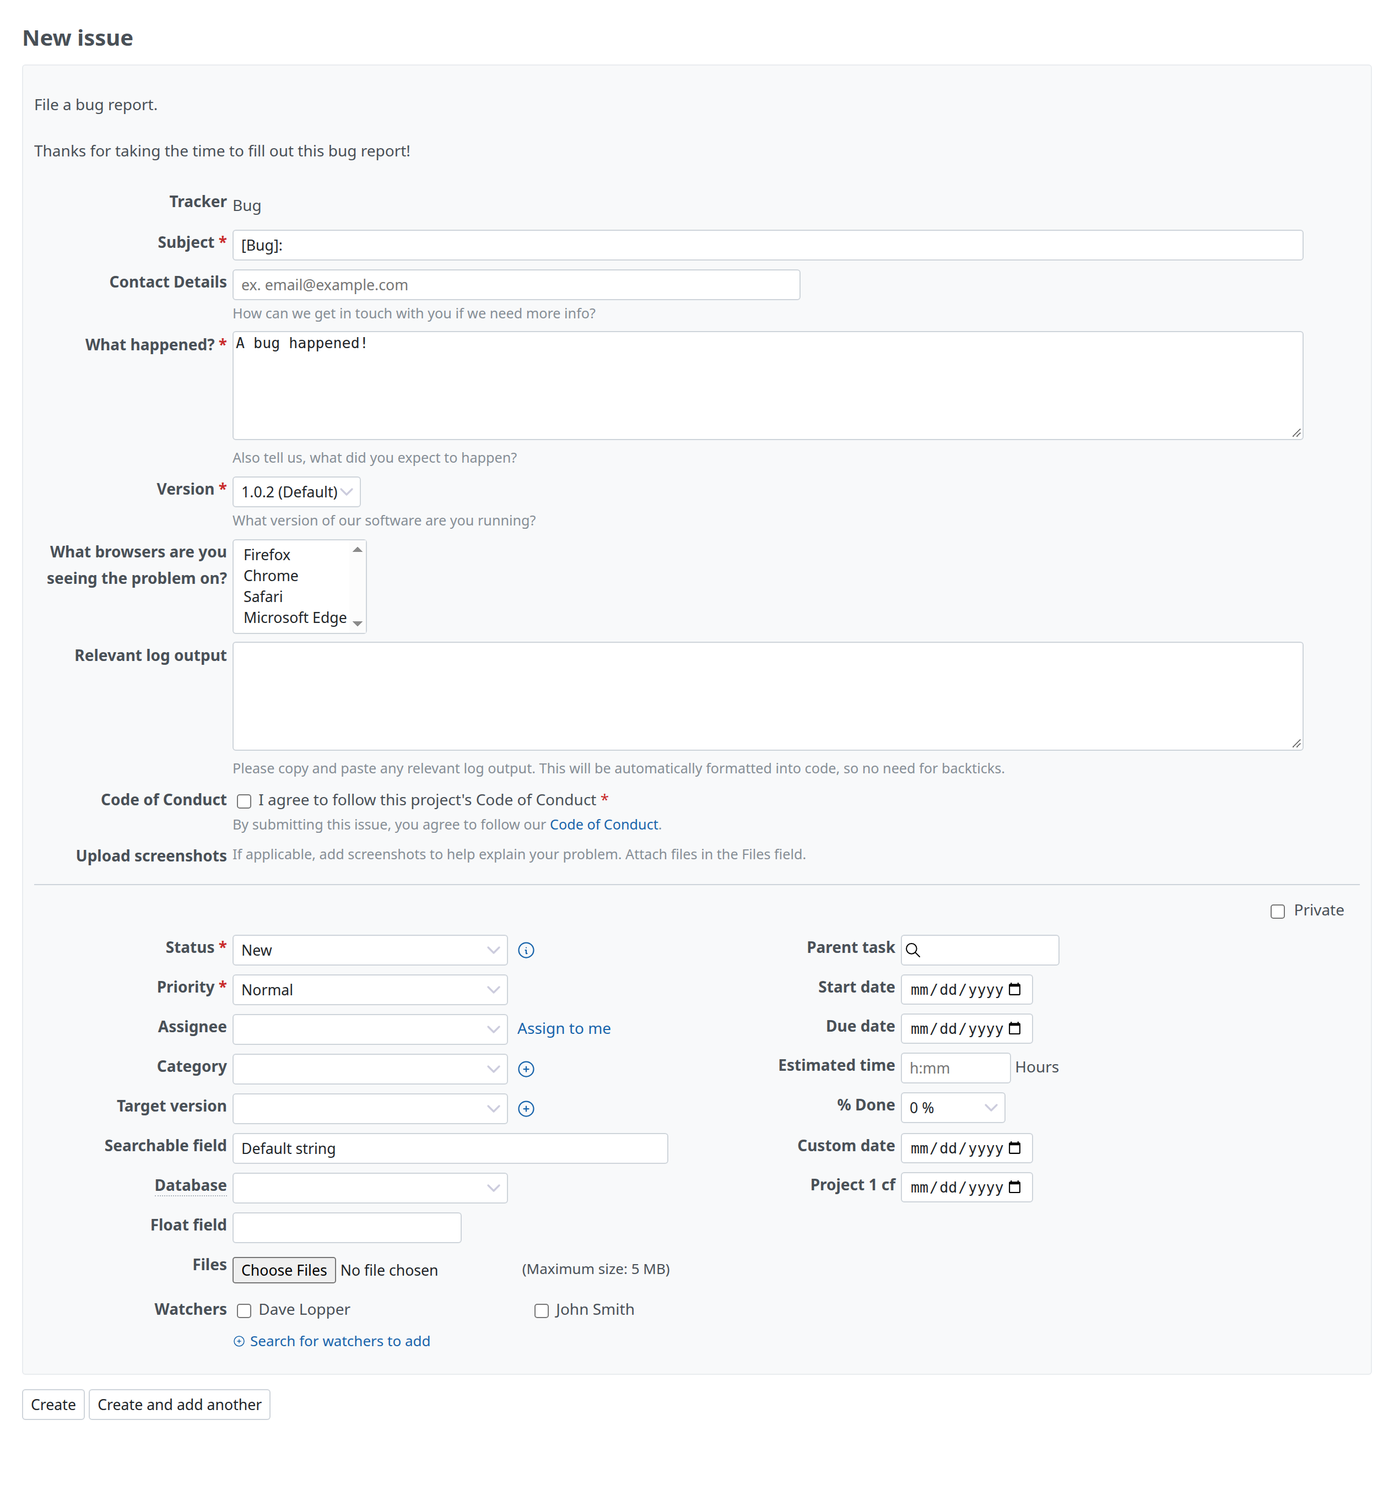
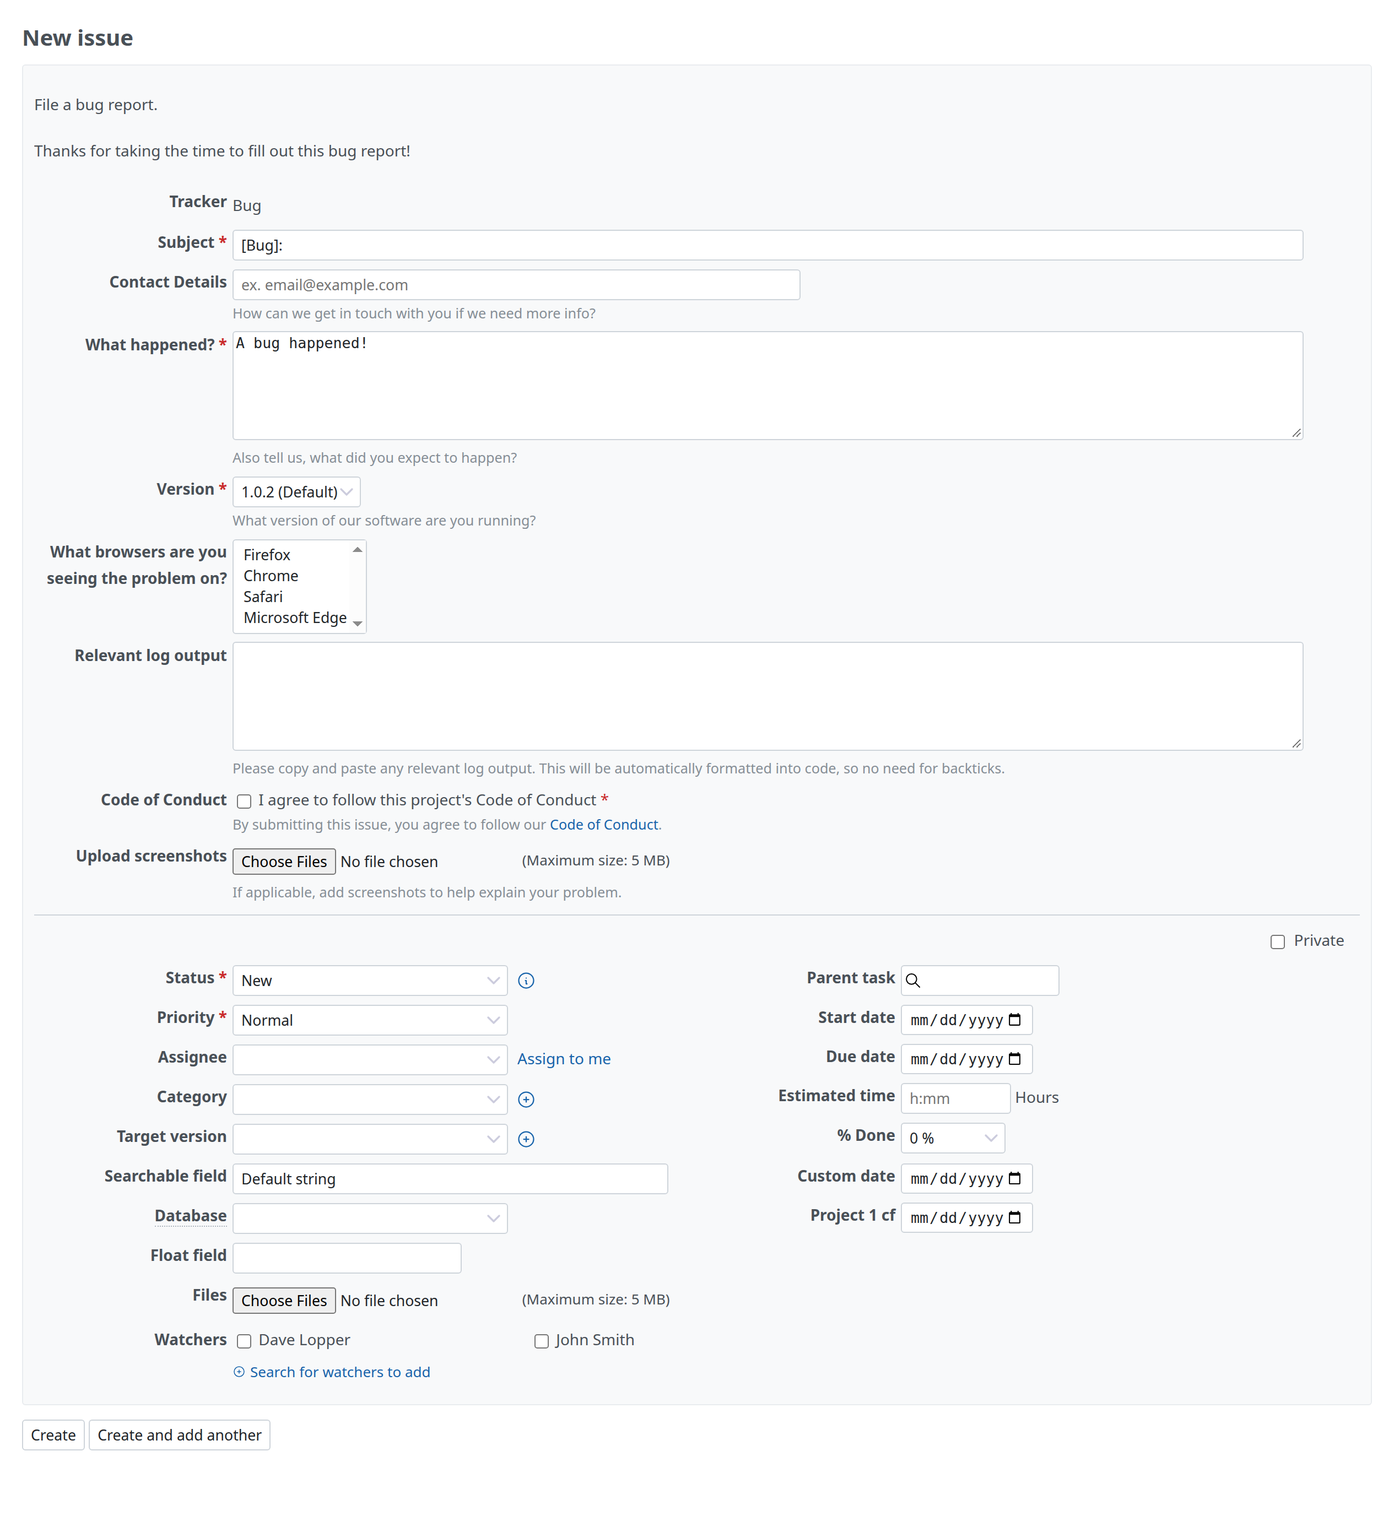
Take files in a form's upload fields

diff --git a/test/functional/issues_controller_template_test.rb b/test/functional/issues_controller_template_test.rb
@@ -148,6 +148,59 @@ module RedmineIssueTemplate
       assert_select 'textarea[name=?]', 'issue_template_answers[what-happened]', text: ''
     end
 
+    test 'an upload field takes files, and its section lists them' do
+      set_tmp_attachments_directory
+      get :new, params: { project_id: 'ecookbook', issue_template: 'bug_report' }
+      assert_select '.issue-template-fields input.file_selector.custom-field-filedrop[name=?]',
+                    'issue_template_uploads[screenshots][dummy][file]'
+
+      mine = upload('screen.png', 2)
+      other = upload('other.png', 3)
+      files = upload('log.txt', 2)
+      post :create, params: {
+        project_id: 'ecookbook', issue_template: 'bug_report',
+        issue: { tracker_id: '1', subject: 'Uploads' },
+        issue_template_answers: { 'what-happened' => 'It crashed', 'version' => '0', 'terms' => ['0'] },
+        issue_template_uploads: { 'screenshots' => { '1' => { 'token' => mine.token, 'description' => 'Crash' },
+                                                     '2' => { 'token' => other.token } } },
+        attachments: { '1' => { 'token' => files.token } }
+      }
+      issue = Issue.order(:id).last
+      assert_redirected_to "/issues/#{issue.id}"
+      # The user's own upload and the file of Redmine's Files field; not another user's upload.
+      assert_equal %w[log.txt screen.png], issue.attachments.map(&:filename).sort
+      assert_equal 'Crash', mine.reload.description
+      assert_nil other.reload.container
+      assert issue.description.gsub("\r\n", "\n").end_with?("### Upload screenshots\n\nattachment:\"screen.png\"")
+    end
+
+    test 'uploaded files come back when the form is updated or not saved' do
+      set_tmp_attachments_directory
+      token = upload('screen.png', 2).token
+      uploads = { 'screenshots' => { '1' => { 'token' => token } } }
+      post :new, params: { project_id: 'ecookbook', issue_template: 'bug_report', issue_template_uploads: uploads,
+                           form_update_triggered_by: 'issue_tracker_id', issue: { tracker_id: '1' } }, xhr: true
+      assert_include 'issue_template_uploads[screenshots][p0][token]', response.body
+      assert_include token, response.body
+
+      post :create, params: { project_id: 'ecookbook', issue_template: 'bug_report', issue_template_uploads: uploads,
+                              issue: { tracker_id: '1', subject: 'Not saved' } }
+      assert_response :success
+      assert_select 'input[name=?][value=?]', 'issue_template_uploads[screenshots][p0][token]', token
+      # Only in the form's field, not again in Redmine's Files field.
+      assert_select 'input[value=?]', token, count: 1
+    end
+
+    test 'a required upload field needs a file' do
+      form = github_fixture('bug_report.yml').sub(/(type: upload.*?required:) false/m, '\\1 true')
+      import('bug_report.yml' => form)
+      post :create, params: { project_id: 'ecookbook', issue_template: 'bug_report',
+                              issue: { tracker_id: '1', subject: 'No file' },
+                              issue_template_answers: { 'what-happened' => 'x', 'version' => '0', 'terms' => ['0'] } }
+      assert_response :success
+      assert_select '#errorExplanation li', text: /Upload screenshots/
+    end
+
     test 'updating the form keeps the template' do
       post :new, params: { project_id: 'ecookbook', issue_template: 'bug_report',
                            form_update_triggered_by: 'issue_tracker_id', issue: { tracker_id: '3', subject: 'x' },
@@ -279,6 +332,7 @@ module RedmineIssueTemplate
       get :new, params: { project_id: 'ecookbook', issue_template: 'feature', issue: { custom_field_values: 'x' } }
       assert_response :success
       post :create, params: { project_id: 'ecookbook', issue_template: 'bug_report', issue_template_answers: 'x',
+                              issue_template_uploads: { 'screenshots' => 'x', 'other' => { '1' => 'x' } },
                               issue: { tracker_id: '1', subject: 'Shapes', custom_fields: ['x'] } }
       assert_response :success
       assert_select '#errorExplanation'
@@ -502,6 +556,12 @@ module RedmineIssueTemplate
     test 'an unknown template opens the chooser' do
       get :new, params: { project_id: 'ecookbook', issue_template: 'nope' }
       assert_redirected_to '/projects/ecookbook/issues/templates'
+    end
+
+    private
+
+    def upload(name, user_id)
+      Attachment.create!(file: uploaded_test_file('testfile.txt', 'text/plain'), filename: name, author_id: user_id)
     end
   end
 end

diff --git a/lib/redmine_issue_template/issue_patch.rb b/lib/redmine_issue_template/issue_patch.rb
@@ -6,16 +6,19 @@ module RedmineIssueTemplate
   # fields, and an issue form's answers become the description.
   module IssuePatch
     include RedmineRules
+    include IssueTemplateAnswers
 
     # The links apply before Redmine's own callbacks (default_assign takes the
     # linked category's assignee) and the description is composed after them.
     def self.prepended(base)
       base.attr_reader :issue_template
       base.attr_accessor :issue_template_answers
-      base.attr_writer :issue_template_defaults
+      base.attr_writer :issue_template_defaults, :issue_template_uploads
       base.before_validation :apply_issue_template_links, on: :create, prepend: true
       base.before_validation :compose_issue_template_description, on: :create
       base.validate :validate_issue_template_answers, on: :create
+      # After Redmine's attach_saved_attachments (after_save).
+      base.after_create :attach_issue_template_uploads
     end
 
     def issue_template=(template)
@@ -109,12 +112,6 @@ module RedmineIssueTemplate
       redmine_method(:editable_custom_field_values).call(author).each(&:validate_value)
     end
 
-    def issue_template_composer
-      BodyComposer.new(issue_template, issue_template_answers,
-                       files: saved_attachments.map(&:filename), linked: issue_template_links.map(&:element),
-                       dropped: issue_template_dropped)
-    end
-
     private
 
     # On create, Redmine resets the custom fields the user can't edit to their
@@ -133,25 +130,6 @@ module RedmineIssueTemplate
     def apply_issue_template_links
       answers = (issue_template_answers || {}).to_h.transform_keys(&:to_s)
       issue_template_links.each { |link| link.apply(self, answers[link.element.ref]) }
-    end
-
-    def compose_issue_template_description
-      return unless issue_template_active? && issue_template.form?
-
-      self.description = issue_template_composer.compose
-    end
-
-    def validate_issue_template_answers
-      return unless issue_template_active? && issue_template.form?
-
-      issue_template_composer.problems.each do |element, problem|
-        message = case problem
-                  when :too_short then ::I18n.t('activerecord.errors.messages.too_short', count: element.min_length)
-                  when :unchecked then ::I18n.t(:issue_template_error_unchecked)
-                  else ::I18n.t('activerecord.errors.messages.blank')
-                  end
-        errors.add(:base, "#{element.label}#{::I18n.t(:issue_template_error_separator)}#{message}")
-      end
     end
   end
 end

diff --git a/lib/redmine_issue_template/issue_template_answers.rb b/lib/redmine_issue_template/issue_template_answers.rb
@@ -1,0 +1,46 @@
+# frozen_string_literal: true
+
+module RedmineIssueTemplate
+  # A form's answers and uploaded files on a new issue: the description made
+  # from them, their checks, and the files attached. Part of IssuePatch.
+  module IssueTemplateAnswers
+    # The files of a form's upload fields: { ref => [Attachment] }, given by
+    # the controller (IssueTemplateParams#issue_template_uploads_param).
+    def issue_template_uploads
+      @issue_template_uploads || {}
+    end
+
+    def issue_template_composer
+      BodyComposer.new(issue_template, issue_template_answers,
+                       files: issue_template_uploads.transform_values { |list| list.map(&:filename) },
+                       linked: issue_template_links.map(&:element), dropped: issue_template_dropped)
+    end
+
+    private
+
+    # The upload fields' files become the issue's files, as Redmine attaches
+    # the files of its own Files field.
+    def attach_issue_template_uploads
+      issue_template_uploads.values.flatten.uniq.each { |attachment| attachments << attachment }
+    end
+
+    def compose_issue_template_description
+      return unless issue_template_active? && issue_template.form?
+
+      self.description = issue_template_composer.compose
+    end
+
+    def validate_issue_template_answers
+      return unless issue_template_active? && issue_template.form?
+
+      issue_template_composer.problems.each do |element, problem|
+        message = case problem
+                  when :too_short then ::I18n.t('activerecord.errors.messages.too_short', count: element.min_length)
+                  when :unchecked then ::I18n.t(:issue_template_error_unchecked)
+                  else ::I18n.t('activerecord.errors.messages.blank')
+                  end
+        errors.add(:base, "#{element.label}#{::I18n.t(:issue_template_error_separator)}#{message}")
+      end
+    end
+  end
+end

diff --git a/lib/redmine_issue_template/body_composer.rb b/lib/redmine_issue_template/body_composer.rb
@@ -7,9 +7,9 @@ module RedmineIssueTemplate
     NO_RESPONSE = '_No response_'
 
     # answers: { ref => a string, or option indexes for multiple dropdowns and
-    # checkboxes }. files: attachment names for upload fields. linked: fields
+    # checkboxes }. files: { ref => file names } of upload fields. linked: fields
     # that set the issue's fields instead. dropped: fields the form leaves out.
-    def initialize(form, answers, files: [], linked: [], dropped: [])
+    def initialize(form, answers, files: {}, linked: [], dropped: [])
       @form = form
       @answers = (answers || {}).to_h.transform_keys(&:to_s)
       @files = files
@@ -58,7 +58,7 @@ module RedmineIssueTemplate
              when 'input' then raw(element).to_s.strip
              when 'dropdown' then chosen(element).join(', ')
              when 'checkboxes' then checkboxes(element)
-             when 'upload' then @files.map { |name| "attachment:\"#{name}\"" }.join("\n")
+             when 'upload' then files(element).map { |name| "attachment:\"#{name}\"" }.join("\n")
              when IssueForm::LINK then given(element).join(', ')
              end
       text.presence || NO_RESPONSE
@@ -102,9 +102,13 @@ module RedmineIssueTemplate
       when 'textarea', 'input' then text_problem(element)
       when 'dropdown' then blank_problem(element, chosen(element))
       when 'checkboxes' then checkbox_problem(element)
-      when 'upload' then blank_problem(element, @files)
+      when 'upload' then blank_problem(element, files(element))
       when IssueForm::LINK then blank_problem(element, given(element))
       end
+    end
+
+    def files(element)
+      @files.fetch(element.ref, [])
     end
 
     def blank_problem(element, values)

diff --git a/lib/redmine_issue_template/issue_template_params.rb b/lib/redmine_issue_template/issue_template_params.rb
@@ -33,6 +33,30 @@ module RedmineIssueTemplate
       answers.permit(refs.flat_map { |ref| [ref, { ref => [] }] }).to_h
     end
 
+    # The files of the form's upload fields: { ref => [Attachment] }, from
+    # the tokens of Redmine's uploads (at most 10 a field, as Redmine's Files
+    # field takes).
+    def issue_template_uploads_param(template)
+      given = hash_param(params[:issue_template_uploads])
+      uploads = template.form? ? template.fields.select { |element| element.type == 'upload' } : []
+      uploads.to_h do |element|
+        entries = hash_param(given[element.ref]).values.first(10)
+        [element.ref, entries.filter_map { |entry| uploaded_attachment(hash_param(entry)) }]
+      end
+    end
+
+    # A file the user uploaded and that is not attached yet, with the name
+    # and description from the form, as Redmine's save_attachments reads them.
+    def uploaded_attachment(entry)
+      attachment = Attachment.find_by_token(entry['token'].to_s)
+      return nil unless attachment && attachment.author_id == User.current.id
+
+      filename = entry['filename']
+      attachment.filename = filename if filename.is_a?(String) && filename.present?
+      attachment.description = entry['description'].to_s.strip
+      attachment
+    end
+
     # The answers as text, under the names they were posted with.
     def issue_template_answers_text
       issue_template_answers_param.filter_map do |name, value|

diff --git a/test/unit/body_composer_test.rb b/test/unit/body_composer_test.rb
@@ -10,7 +10,7 @@ module RedmineIssueTemplate
       RedmineIssueTemplate::Parser.parse('bug_report.yml' => github_fixture('bug_report.yml')).usable.first
     end
 
-    def composer(answers, files: [])
+    def composer(answers, files: {})
       RedmineIssueTemplate::BodyComposer.new(form, answers, files: files)
     end
 
@@ -52,7 +52,7 @@ module RedmineIssueTemplate
     end
 
     test 'empty answers, unchecked boxes and uploaded files' do
-      body = composer({ 'terms' => [''] }, files: ['screen shot.png']).compose
+      body = composer({ 'terms' => [''] }, files: { 'screenshots' => ['screen shot.png'] }).compose
       assert_includes body, "### Relevant log output\n\n_No response_"
       assert_includes body, "- [ ] I agree to follow this project's Code of Conduct"
       assert_includes body, "### Upload screenshots\n\nattachment:\"screen shot.png\""

diff --git a/lib/redmine_issue_template.rb b/lib/redmine_issue_template.rb
@@ -24,8 +24,8 @@ module RedmineIssueTemplate
   def setup
     %w[yaml_nodes message parser redmine_options linked_field template markdown_template redmine_rules
        issue_form_checks issue_form chooser_config template_set body_composer importer repository_source
-       issue_template_defaults issue_patch issue_template_params issues_controller_patch projects_helper_patch
-       repository_patch hooks].each do |file|
+       issue_template_defaults issue_template_answers issue_patch issue_template_params issues_controller_patch
+       projects_helper_patch repository_patch hooks].each do |file|
       require_relative "redmine_issue_template/#{file}"
     end
     Project.has_many :issue_template_files, dependent: :delete_all

diff --git a/lib/redmine_issue_template/issues_controller_patch.rb b/lib/redmine_issue_template/issues_controller_patch.rb
@@ -40,6 +40,7 @@ module RedmineIssueTemplate
       @issue.issue_template = template
       @issue.issue_template_defaults = issue_template_defaults(template)
       @issue.issue_template_answers = issue_template_answers_param(template)
+      @issue.issue_template_uploads = issue_template_uploads_param(template)
       issue_template_defaults(template).apply_to_hidden_fields(@issue)
       restore_shown_hidden_input(@issue, template)
     end

diff --git a/docs/ja/design.md b/docs/ja/design.md
@@ -76,7 +76,7 @@ fields:
 
 入力の種類は `markdown`、`textarea`(`label`、`description`、`placeholder`、`value`、`render`。検証は `required`、`min_length`)、`input`(`label`、`description`、`placeholder`、`value`。検証は `required`、`min_length`)、`dropdown`(`label`、`description`、`multiple`、`options`、`default`。検証は `required`)、`checkboxes`(`label`、`description`、`label` と `required` を持つ選択肢。検証は `required`)、`upload`(`label`、`description`。検証は `required`、`accept`)です。`type` を書かずに `link` を書いた入力欄は、チケットの項目に値を入れます([項目とのつなぎ込み](format.md#links))。ファイルごとの入力チェックは、[検証](format.md#checks)のとおりです。
 
-チケットを作るときに、回答を Markdown にして説明に書きます。入力欄ごとに `### <label>` の見出しを置き、その下に回答を書きます。空なら `_No response_`、`render` のある `textarea` はコードブロック、`dropdown` は選んだ選択肢をカンマで区切り、`checkboxes` は選択肢ごとに `- [X] <label>` か `- [ ] <label>` です。`upload` はチケットの「ファイル」の欄を使い、その節には添付したファイルを並べます。
+チケットを作るときに、回答を Markdown にして説明に書きます。入力欄ごとに `### <label>` の見出しを置き、その下に回答を書きます。空なら `_No response_`、`render` のある `textarea` はコードブロック、`dropdown` は選んだ選択肢をカンマで区切り、`checkboxes` は選択肢ごとに `- [X] <label>` か `- [ ] <label>` です。`upload` は Redmine の「ファイル」欄と同じファイルの欄で、そのファイルはチケットに添付され、その節に並びます。Redmine の「ファイル」欄は、ほかのファイルのために下に残ります。
 
 Redmine は、説明をテキスト書式の設定で表示します。テンプレートは Markdown なので、設定は CommonMark Markdown にします。そうでなければ、プロジェクトの設定のタブに警告を出します。
 

diff --git a/AGENTS.md b/AGENTS.md
@@ -14,8 +14,8 @@ Redmine Issue Template (`redmine_issue_template`) is a Redmine plugin for issue 
 | `lib/redmine_issue_template/message.rb` | Errors and warnings of the files, in Redmine's validation sentences |
 | `lib/redmine_issue_template/template_set.rb` | A project's parsed templates, cached per process by a database key |
 | `lib/redmine_issue_template/importer.rb`, `repository_source.rb`, `repository_patch.rb` | Importing and storing files (the entry point for redmine_github) |
-| `lib/redmine_issue_template/issue_patch.rb` (`issue_template_visibility`, the one place), `redmine_rules.rb`, `issue_template_defaults.rb`, `linked_field.rb`, `body_composer.rb` | What a template does to a new issue: hidden, preset, linked and required fields, the template's values, the description from the answers |
-| `lib/redmine_issue_template/issues_controller_patch.rb`, `issue_template_params.rb` | The chooser redirect, refusing issues without a template; the request's parameters (permitted answers, preset values, what the request can't set) |
+| `lib/redmine_issue_template/issue_patch.rb` (`issue_template_visibility`, the one place), `redmine_rules.rb`, `issue_template_defaults.rb`, `issue_template_answers.rb`, `linked_field.rb`, `body_composer.rb` | What a template does to a new issue: hidden, preset, linked and required fields, the template's values, the description from the answers, the files of upload fields |
+| `lib/redmine_issue_template/issues_controller_patch.rb`, `issue_template_params.rb` | The chooser redirect, refusing issues without a template; the request's parameters (permitted answers and uploads, preset values, what the request can't set) |
 | `app/controllers/issue_templates_controller.rb`, `app/views/issue_templates/` | The chooser, the settings tab, the file pages, a YAML form's part at the top of Redmine's form |
 | `app/helpers/issue_templates_helper.rb`, `issue_template_form_helper.rb` | The one Markdown helper and the fields' labels; the change to Redmine's `projects_for_select` |
 | `assets/stylesheets/issue_template.css` | The plugin's CSS, each rule with its reason |

diff --git a/docs/design.md b/docs/design.md
@@ -65,7 +65,7 @@ fields:
 
 The element types are `markdown`, `textarea` (`label`, `description`, `placeholder`, `value`, `render`; `required`, `min_length`), `input` (`label`, `description`, `placeholder`, `value`; `required`, `min_length`), `dropdown` (`label`, `description`, `multiple`, `options`, `default`; `required`), `checkboxes` (`label`, `description`, options with `label` and `required`; `required`) and `upload` (`label`, `description`; `required`, `accept`). A field with `link` and no `type` sets an issue field ([Links](format.md#links)). Each file is checked as [Checks](format.md#checks) describes.
 
-When the issue is created, the answers become the description in Markdown: a `### <label>` heading per field, the answer below it, `_No response_` when it is empty, a fenced code block for a `textarea` with `render`, the chosen options separated by commas for a `dropdown`, `- [X] <label>` or `- [ ] <label>` per option for `checkboxes`. `upload` uses the issue's own files field; its section lists the attached files.
+When the issue is created, the answers become the description in Markdown: a `### <label>` heading per field, the answer below it, `_No response_` when it is empty, a fenced code block for a `textarea` with `render`, the chosen options separated by commas for a `dropdown`, `- [X] <label>` or `- [ ] <label>` per option for `checkboxes`. `upload` is a file field like Redmine's Files field; its files are attached to the issue, and its section lists them. Redmine's own Files field stays below for other files.
 
 Redmine shows descriptions with its text formatting setting. Templates are Markdown, so the setting should be CommonMark Markdown; the project settings tab warns when it is not.
 
